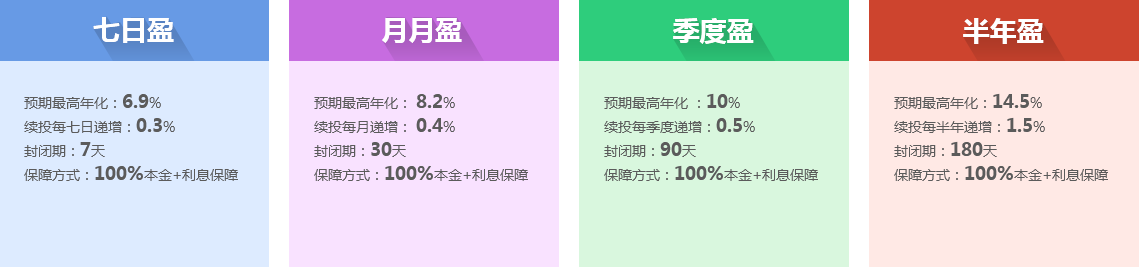
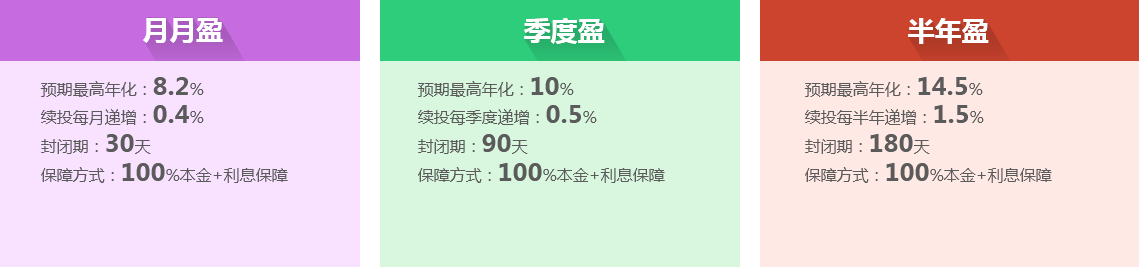
零存宝介绍文案修改以及第三个banner图进入后文案修改

diff --git a/app/views/banner/banner-investmentplan.html b/app/views/banner/banner-investmentplan.html
@@ -25,8 +25,8 @@
     <div id="jinying-step-2"></div>
     <div class="img-bg"></div>
     <div class="btn-area">
-      <a ui-sref="root.current-deposit-details({number: item.number})" class="col-xs-2  jinying-btn ft-18" ng-class="{'seven-btn': item.fundsProduct.type === 1,'month-btn': item.fundsProduct.type === 2,'quarter-btn': item.fundsProduct.type === 3,'half-btn': item.fundsProduct.type === 4}" ng-repeat="item in fundsProjectProductList | limitTo: 1">立即投资</a>
-      <a ui-sref="root.investmentplan-details({number: item.number})" class="col-xs-2  jinying-btn ft-18" ng-class="{'seven-btn': item.fundsProduct.type === 1,'month-btn': item.fundsProduct.type === 2,'quarter-btn': item.fundsProduct.type === 3,'half-btn': item.fundsProduct.type === 4}" ng-repeat="item in fundsProjectProductList | limitTo: -3">立即投资</a>
+      <a ui-sref="root.current-deposit-details({number: item.number})" class="col-xs-2  jinying-btn ft-18" ng-class="{'seven-btn': item.fundsProduct.type === 1,'month-btn': item.fundsProduct.type === 2,'quarter-btn': item.fundsProduct.type === 3,'half-btn': item.fundsProduct.type === 4}" ng-repeat="item in fundsProjectProductList | limitTo: 1" ng-show="false">立即投资</a>
+      <a ui-sref="root.investmentplan-details({number: item.number})" class="col-xs-4  jinying-btn ft-18" ng-class="{'seven-btn': item.fundsProduct.type === 1,'month-btn': item.fundsProduct.type === 2,'quarter-btn': item.fundsProduct.type === 3,'half-btn': item.fundsProduct.type === 4}" ng-repeat="item in fundsProjectProductList | limitTo: -3">立即投资</a>
     </div>
   </div>
   <div class="bg-2">
@@ -61,10 +61,10 @@
         1)真实安全：加入宏金盈的资金，全部用于投资真实、提供100%本息担保的小额借款项目。
         <br>2)超低门槛：100元即可以加入，以100元倍数递增。
         <br>3)多样选择：多种期限搭配，满足不同流动性需求。
-        <br>4)省心优利：一次投入，按月（期）付息，到期还本；七日盈、月月盈、季度盈、半年盈可选择自动续投。
+        <br>4)省心优利：一次投入，按月（期）付息，到期还本；月月盈、季度盈、半年盈可选择自动续投。
         <br>5)零手续费：加入和到期赎回全免费。
         <br>6)分散投资：一份投资对应多份债权，降低投资风险。
-        <br>7)递增收益：6%-10%，七日盈、月月盈、季度盈、半年盈每期分别递增0.3%、0.4%、0.5%、1.5%。
+        <br>7)递增收益：6%-14.5%，月月盈、季度盈、半年盈每期分别递增0.4%、0.5%、1.5%。
       </p>
     </div>
     <div class="jinying-help-info">
@@ -73,7 +73,7 @@
         <span class="Q-info">宏金盈的自动续投利息如何计算？是否允许提前赎回？</span>
       </p>
       <p class="help-A">
-        递增收益，6%-14.5%，七日盈、月月盈、季度盈、半年盈每期分别递增0.3%、0.4%、0.5%、1.5%；可按投放周期赎回，在投放期限内取消自动续投到期后自动退出。
+        递增收益，6%-14.5%，月月盈、季度盈、半年盈每期分别递增0.4%、0.5%、1.5%；可按投放周期赎回，在投放期限内取消自动续投到期后自动退出。
       </p>
     </div>
     <div class="jinying-help-info">
@@ -82,7 +82,7 @@
         <span class="Q-info">宏金盈的债权类别？</span>
       </p>
       <p class="help-A">
-        宏金保、宏财网投资人债权转让、宏财优选债权。
+        基金产品、信托产品、担保产品等优质债权。
       </p>
     </div>
     <div class="jinying-help-info end-Q">

diff --git a/app/views/project/_current_deposit_detail.html b/app/views/project/_current_deposit_detail.html
@@ -49,11 +49,11 @@
                             </tr>
                             <tr class="border-b-da">
                                 <td class="bg-grey5 tab-left text-right">计划介绍</td>
-                                <td class="bg-white tab-right">宏金盈是宏财网推出的针对宏财网投资人债权进行自动投资及定时自动转让的理财计划，多种期限可选，满足出借人不同的流动性需要。出借人出借的本金将在投资期限到达后一次性返回其账户，利息收益每月(期)发放，并由系统实现自动化的分散投资，更好的满足了出借人的需求。</td>
+                                <td class="bg-white tab-right">零存宝是宏财网推出的针对宏财网投资人债权进行自动投资及定时自动转让的理财计划，满足投资人短期资金流动性需要。投资本金将在投资期限到达后一次性返回其账户，利息收益每期发放，并实现自动续投。</td>
                             </tr>
                             <tr class="border-b-da">
                                 <td class="bg-grey5 tab-left text-right">投标范围</td>
-                                <td class="bg-white tab-right">宏金保、宏财网投资人债权转让、宏财网优选债权。</td>
+                                <td class="bg-white tab-right">基金公司、信托公司及担保公司的优质项目。</td>
                             </tr>
                             <tr class="border-b-da">
                                 <td class="bg-grey5 tab-left text-right">预期年化收益及计算方式</td>
@@ -85,7 +85,7 @@
                             </tr>
                             <tr class="border-b-da">
                                 <td class="bg-grey5 tab-left text-right">加入上限</td>
-                                <td class="bg-white tab-right">无条件</td>
+                                <td class="bg-white tab-right">累计投资不能超过20000元</td>
                             </tr>
                             <tr class="border-b-da">
                                 <td class="bg-grey5 tab-left text-right">保障方式</td>
@@ -105,7 +105,7 @@
                             </tr>
                             <tr class="border-b-da">
                                 <td class="bg-grey5 tab-left text-right">服务协议</td>
-                                <td class="bg-white tab-right"><a class="ft-red text-unline" ng-click="showCurrentDepositAgreement();">零存宝计划协议范本</a></td>
+                                <td class="bg-white tab-right"><a class="ft-red text-unline" ng-click="showCurrentDepositAgreement();">零存宝协议范本</a></td>
                             </tr>
                         </tbody>
                     </table>

diff --git a/app/views/order/invplan-verify.html b/app/views/order/invplan-verify.html
@@ -18,7 +18,7 @@
                 </div>
             </div>
         </div>
-        <div class="row border">
+        <div class="row border border-b-da">
             <div class="col-xs-12" style="background-color:#eee;padding-top:15px;padding-bottom:15px;">&nbsp;&nbsp;<b>投资信息确认</b>
             </div>
             <div class="col-md-12  margin-t-15 margin-b-30">
@@ -37,12 +37,12 @@
                 </div>
             </div>
         </div>
-        <div class="row list-item border-b" ng-show="fundsProduct.type === 1" >
+        <div class="row list-item border-b-da" ng-show="fundsProduct.type === 1" >
             <div class="col-xs-9 col-xs-offset-3 text-right" >
                 累积最大投资金额：{{maxInvestAmount| number:2}}元，已投金额：{{totalPayAmount | number:2}}元
             </div>
         </div>
-        <div class="row list-item border-b" ng-switch="investAmount - capital.balance <= 0">
+        <div class="row list-item border-b-da" ng-switch="investAmount - capital.balance <= 0">
             <div class="col-xs-3 col-xs-offset-4" ng-switch-when="true">
                 <input type="checkbox" ng-checked="true" ng-model="$parent.checkInvFlag" />同意<a class="ft-red" ng-click="showAgreement(fundsProduct.type);" ng-show="fundsProduct.type !== 1">《宏金盈委托投资协议》</a>
                 <a class="ft-red" ng-click="showAgreement(fundsProduct.type);" ng-show="fundsProduct.type === 1">《零存宝委托投资协议》</a>

diff --git a/app/styles/banner.less b/app/styles/banner.less
@@ -359,7 +359,7 @@ hr {
 }
 .jinying-btn{
   height: 45px;
-  width: 210px;
+  width: 286px;
   border: 1px solid #fff;
   font-weight: bold;
   text-align: center;
@@ -381,7 +381,7 @@ hr {
 .quarter-btn{
   border-color: #2ecd7c;
   color: #2ecd7c;
-  margin: 0 2.5%;
+  margin: 0 4.5%;
 }
 .quarter-btn:hover{
   color: white;
@@ -390,7 +390,7 @@ hr {
 .month-btn{
   border-color: #c76ce0;
   color: #c76ce0;
-  margin: 0 4.5%;
+  margin: 0 3.5%;
 }
 .month-btn:hover{
   color: white;

diff --git a/app/views/header.html b/app/views/header.html
@@ -31,7 +31,7 @@
         </li>
         <li ng-show="false"><a href="newbie-guide.html" target="_blank">新手引导</a>
         </li>
-        <li><a ui-sref="root.help-center.introduce" class="help">帮助</a>
+        <li><a ui-sref="root.help-center.introduce" class="help" style="margin-left:20px;">帮助</a>
         </li>
       </ul>
     </div>

diff --git a/app/styles/main_new.less b/app/styles/main_new.less
@@ -191,6 +191,14 @@
 .border-b-orange{
   border-bottom:2px solid #FD8F3F;
 }
+.border-b-da{
+  border-bottom:1px dashed #dadada;
+}
+
+#mini-bar ul > li > a, #mini-bar ul > li > span{
+  color:black;
+}
+
 /*************************/
 
 .block-table {
